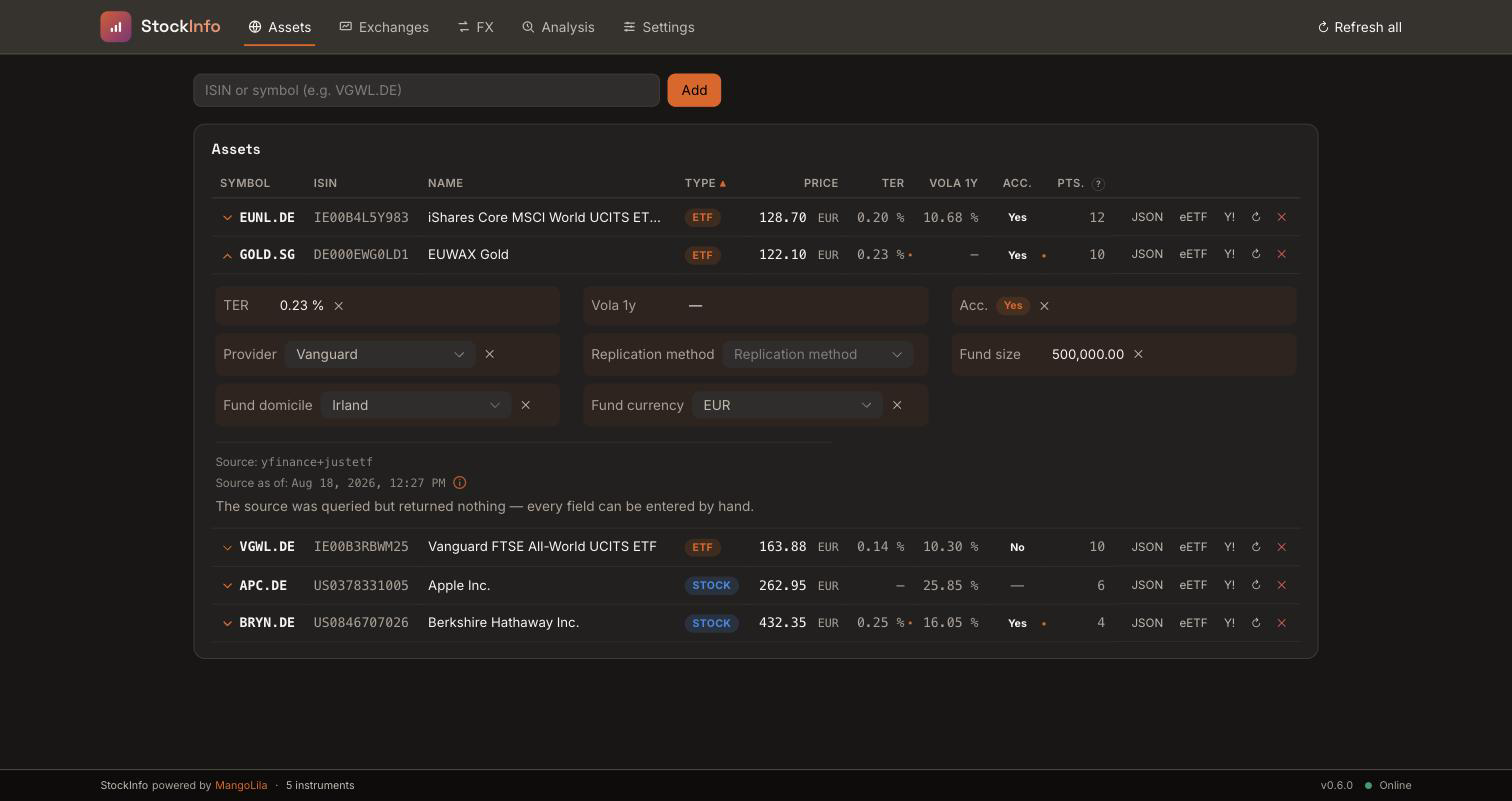
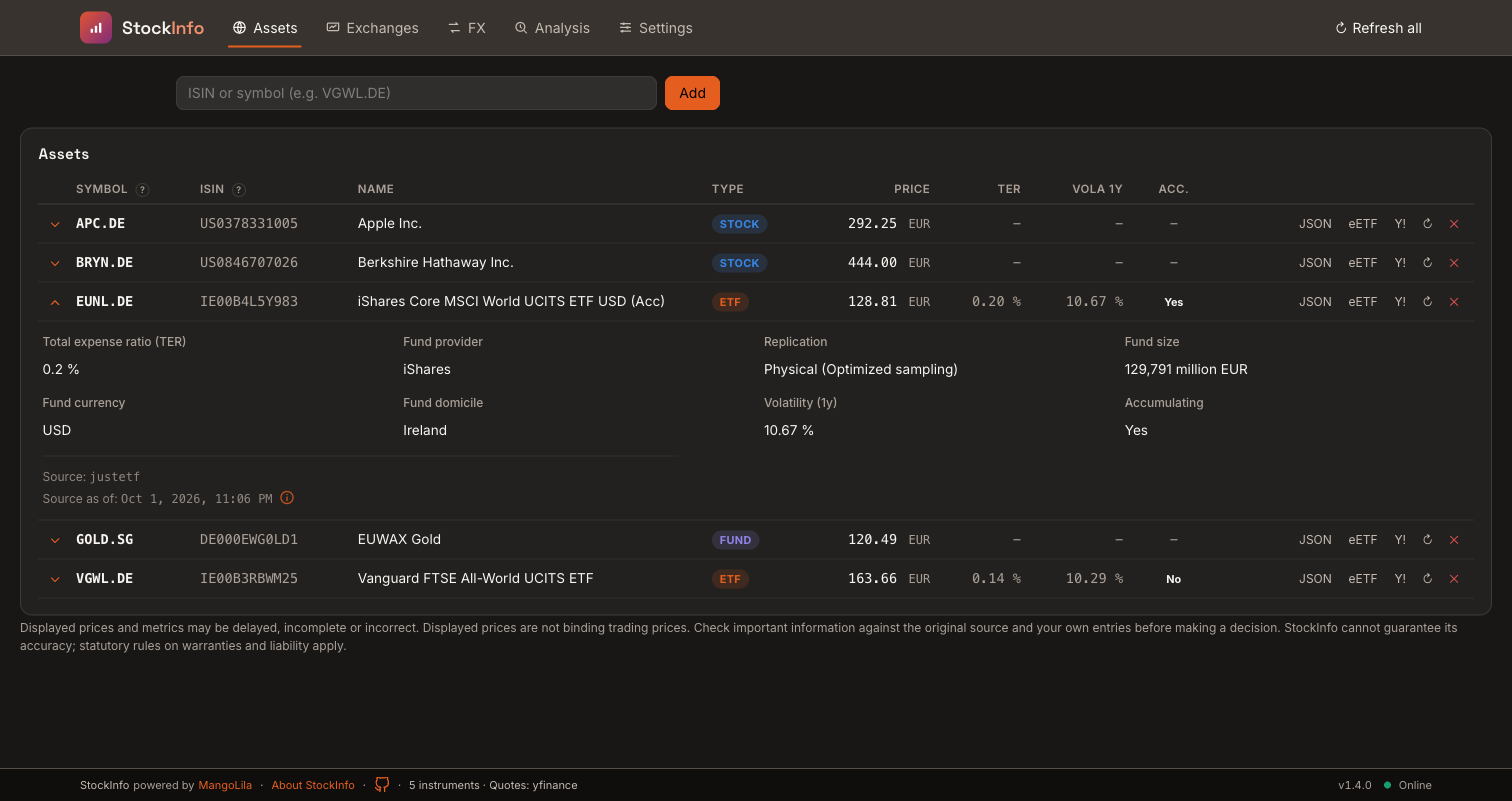
fix(details): Fondsgroesse durchgehend in Mio. EUR
justETF liefert fund_size_eur in Millionen; Katalog, justETF-Plugin und Adapter deklarieren jetzt Unit.MILLIONS mit Waehrung. MONEY_UNITS im Plugin-Vertrag (ABSOLUTE, MILLIONS) verlangt die Waehrung. Anzeige ueber i18n: '129.791 Mio. EUR' / '129,791 million EUR'. Replikation bekommt das fehlende Leerzeichen vor der Klammer. Vertrags-Fixtures auf Millionen, neues detail-area.png (T-88).

diff --git a/dashboard/src/components/MetricEditor.vue b/dashboard/src/components/MetricEditor.vue
@@ -7,6 +7,7 @@ import { UxInlineNumber } from '@mmit/ux-foundation'
 import MetricValue from './MetricValue.vue'
 import { manualValue, sourceProvides } from '../composables/useOverrides'
 import { FIELD_LABEL_KEY } from '../utils/fieldLabels'
+import { fundSizeText } from '../utils/fundSize'
 import type { InstrumentOverrides, InstrumentSummary, OverrideField } from '../types'
 
 /**
@@ -128,11 +129,11 @@ const numericValue = computed(() => (typeof manual.value === 'number' ? manual.v
 
 const numberMax = computed(() => NUMBER_MAX[props.field] ?? Number.MAX_SAFE_INTEGER)
 
-/** Fondsvolumen ist keine Prozentzahl — TER und Volatilität schon. */
+/** Fondsvolumen steht in Mio. EUR — TER und Volatilität in Prozent. */
 const numberDisplay = computed(() => {
   if (numericValue.value === null) return t('common.noValue')
   const formatted = n(numericValue.value, DIGITS)
-  return props.field === 'fund_size' ? formatted : `${formatted} %`
+  return props.field === 'fund_size' ? fundSizeText(t, formatted) : `${formatted} %`
 })
 
 function onNumber(value: number | null): void {

diff --git a/dashboard/tests/components/OpenDetails.spec.ts b/dashboard/tests/components/OpenDetails.spec.ts
@@ -33,6 +33,21 @@ describe('Offene Detailfelder', () => {
     expect(wrapper.emitted('commit')?.[0]).toEqual([{ value: null, currency: currencyRequired ? 'EUR' : null }])
   })
 
+  it.each([
+    ['de', '129.791 Mio. EUR'],
+    ['en', '129,791 million EUR'],
+  ])('zeigt die Fondsgröße in Millionen mit Währung (%s)', (locale, expected) => {
+    i18n.global.locale.value = locale as 'de' | 'en'
+    const wrapper = mount(DetailEditor, {
+      props: {
+        definition: { ...definition, name: 'fund_size', unit: 'millions', currency_required: true, overridable: false },
+        value: { ...value, value: 129791, currency: 'EUR', origin: 'provider', source: 'justetf' },
+      },
+      global: { plugins: [i18n] },
+    })
+    expect(wrapper.text()).toBe(expected)
+  })
+
   it('zeigt ein vorher unbekanntes Plugin-Feld und reicht die Eingabe weiter', async () => {
     vi.stubGlobal('fetch', vi.fn().mockResolvedValue(new Response(JSON.stringify({ details: [definition] }))))
     const wrapper = mount(OpenDetails, {

diff --git a/dashboard/src/components/MetricValue.vue b/dashboard/src/components/MetricValue.vue
@@ -3,6 +3,7 @@ import { computed } from 'vue'
 import { useI18n } from 'vue-i18n'
 
 import { manualValue, overrideState, sourceProvides } from '../composables/useOverrides'
+import { fundSizeText } from '../utils/fundSize'
 import type { InstrumentSummary, OverrideField } from '../types'
 
 /**
@@ -61,9 +62,10 @@ const fromSource = computed(() => applicable.value && sourceProvides(props.item,
  */
 const DIGITS = { minimumFractionDigits: 2, maximumFractionDigits: 2 }
 
-/** Formatiert eine Zahl passend zum Feld — mit Prozentzeichen nur bei ter/volatility. */
+/** Formatiert eine Zahl passend zum Feld: Prozent bei ter/volatility, Mio. EUR bei fund_size. */
 function formatNumber(raw: number): string {
   const formatted = n(raw, DIGITS)
+  if (props.field === 'fund_size') return fundSizeText(t, formatted)
   return isPercentField.value ? `${formatted} %` : formatted
 }
 

diff --git a/dashboard/src/components/DetailEditor.vue b/dashboard/src/components/DetailEditor.vue
@@ -16,8 +16,11 @@ const display = computed(() => {
   if (value === null) return t('common.noValue')
   if (typeof value === 'boolean') return t(value ? 'table.yes' : 'table.no')
   const text = typeof value === 'number' ? n(value) : value
+  // Beim Bearbeiten steht die Währung in der eigenen Auswahl daneben.
+  const currency = editable.value ? '' : props.value.currency || ''
+  if (props.definition.unit === 'millions') return t('details.amountMillions', { amount: text, currency }).trim()
   const unit = props.definition.currency_required
-    ? (editable.value ? '' : props.value.currency || '')
+    ? currency
     : props.definition.unit === 'percent' ? '%' : props.definition.unit || ''
   return `${text}${unit ? ` ${unit}` : ''}`
 })

diff --git a/dashboard/tests/components/MetricEditor.spec.ts b/dashboard/tests/components/MetricEditor.spec.ts
@@ -19,6 +19,18 @@ describe('MetricEditor', () => {
     expect(wrapper.findComponent({ name: 'UxInlineNumber' }).exists()).toBe(true)
   })
 
+  it('zeigt eine eingetragene Fondsgröße in Millionen Euro', () => {
+    const previousLocale = i18n.global.locale.value
+    i18n.global.locale.value = 'en'
+    const wrapper = mountEditor(
+      makeInstrument({ fund_size: 500, manual_fund_size: 500, manual_fields: ['fund_size'] }),
+      'fund_size',
+    )
+
+    expect(wrapper.text()).toContain('500.00 million EUR')
+    i18n.global.locale.value = previousLocale
+  })
+
   it('sperrt das Feld, sobald die Quelle etwas hat', () => {
     const wrapper = mountEditor(makeInstrument({ ter: 0.2 }))
 

diff --git a/dashboard/tests/components/MetricValue.spec.ts b/dashboard/tests/components/MetricValue.spec.ts
@@ -17,6 +17,18 @@ describe('MetricValue', () => {
     expect(wrapper.text()).toBe(i18n.global.t('common.noValue'))
   })
 
+  it('zeigt die Fondsgröße in Millionen Euro', () => {
+    const previousLocale = i18n.global.locale.value
+    i18n.global.locale.value = 'de'
+    const wrapper = mount(MetricValue, {
+      global: { plugins: [i18n] },
+      props: { item: makeInstrument({ fund_size: 129791 }), field: 'fund_size' },
+    })
+
+    expect(wrapper.text()).toBe('129.791,00 Mio. EUR')
+    i18n.global.locale.value = previousLocale
+  })
+
   it('zeigt den wirksamen Wert ohne jede Bedienung', () => {
     const wrapper = mount(MetricValue, {
       global: { plugins: [i18n] },

diff --git a/dashboard/src/utils/fundSize.ts b/dashboard/src/utils/fundSize.ts
@@ -1,0 +1,15 @@
+/**
+ * Anzeige der Fondsgröße in den flachen Feldern (`fund_size`, `manual_fund_size`).
+ *
+ * Die flachen Felder tragen keine eigene Währung. Laut Vertrag stehen sie in
+ * Millionen Euro, so wie justETF sie liefert. Der Detailbereich mit eigener
+ * Währung formatiert in `DetailEditor.vue` über denselben Katalogtext.
+ */
+export const FUND_SIZE_CURRENCY = 'EUR'
+
+type Translate = (key: string, values: Record<string, unknown>) => string
+
+/** „129.791,00 Mio. EUR" aus einer bereits formatierten Zahl. */
+export function fundSizeText(t: Translate, amount: string): string {
+  return t('details.amountMillions', { amount, currency: FUND_SIZE_CURRENCY })
+}

diff --git a/dashboard/src/i18n/de.ts b/dashboard/src/i18n/de.ts
@@ -21,6 +21,7 @@ export const de = {
     shadowed: 'Eigener Wert {value} wird von der Quelle verdeckt.',
     loadFailed: 'Feldkatalog konnte nicht geladen werden.',
     empty: 'Für dieses Instrument sind keine Detailfelder deklariert.',
+    amountMillions: '{amount} Mio. {currency}',
   },
   /*
    * Wortmarke in zwei Teilen: Farbig ist der Teil, der die App

diff --git a/dashboard/src/i18n/en.ts b/dashboard/src/i18n/en.ts
@@ -18,6 +18,7 @@ export const en = {
     shadowed: 'The source takes precedence over your value {value}.',
     loadFailed: 'Could not load field definitions.',
     empty: 'No detail fields are declared for this instrument.',
+    amountMillions: '{amount} million {currency}',
   },
   /*
    * Wortmarke in zwei Teilen: Farbig ist der Teil, der die App

diff --git a/tests/test_open_details.py b/tests/test_open_details.py
@@ -82,6 +82,34 @@ def test_katalogversion_steigt_nur_bei_schemawechsel(tmp_path):
     assert repo.detail_catalog([])[1] == first + 2
 
 
+@pytest.mark.parametrize(
+    ('value', 'accepted'),
+    [(129_791.0, True), (2_000_000.0, True), (2_000_001.0, False)],
+    ids=['msci-world-129791-mio', 'obergrenze-2-billionen', 'ueber-der-obergrenze'],
+)
+def test_fondsgroesse_steht_in_millionen_mit_waehrung(value, accepted):
+    """Die Fondsgröße steht in Mio. EUR, wie justETF sie liefert.
+
+    Auch ein Betrag in Millionen braucht seine Währung; ohne sie wäre
+    „129.791 Mio." bedeutungslos.
+    """
+    from app.detail_models import DetailInput
+    from app.details import validate_input
+
+    class FundSizeSource(SampleSource):
+        FIELDS = (FieldSpec('fund_size', kind='number', unit=Unit.MILLIONS),)
+
+    definition = definitions_for(FundSizeSource())[0]
+    assert definition.unit == 'millions'
+    assert definition.currency_required is True
+    entry = DetailInput(value=value, currency='EUR')
+    if accepted:
+        assert validate_input(definition, entry) == entry
+    else:
+        with pytest.raises(ValueError):
+            validate_input(definition, entry)
+
+
 def test_plausibilitaet_verwendet_die_deklarierte_einheit():
     from stockinfo_plugin import Reading
     from app.plugin_adapters import MetadataAdapter
@@ -130,7 +158,7 @@ def test_alter_override_weg_erhaelt_die_gespeicherte_betragswaehrung(tmp_path):
     from tests.test_quote_cache import FakeQuoteService, _now, _response
 
     class FundSource(SampleSource):
-        FIELDS = (FieldSpec('fund_size', kind='number', unit=Unit.ABSOLUTE),
+        FIELDS = (FieldSpec('fund_size', kind='number', unit=Unit.MILLIONS),
                   FieldSpec('fund_currency'))
 
     path = str(tmp_path / 'money.db')

diff --git a/app/details.py b/app/details.py
@@ -5,6 +5,7 @@ import re
 from collections.abc import Iterable
 
 from stockinfo_plugin import Unit
+from stockinfo_plugin.types import MONEY_UNITS as CONTRACT_MONEY_UNITS
 from stockinfo_plugin.types import convert
 
 from app.detail_models import DetailDefinition, DetailInput, DetailScope, DetailValue
@@ -14,13 +15,17 @@ from app.detail_models import DetailDefinition, DetailInput, DetailScope, Detail
 CANONICAL = {
     'ter': ('number', 'percent', 0, 5),
     'volatility': ('number', 'percent', 0, 500),
-    'fund_size': ('number', 'absolute', 0, 2_000_000),
+    # In Mio. EUR wie bei justETF; 2.000.000 entspricht 2 Billionen.
+    'fund_size': ('number', 'millions', 0, 2_000_000),
     'accumulating': ('boolean', None, None, None),
     'provider': ('text', None, None, None),
     'replication': ('text', None, None, None),
     'fund_domicile': ('text', None, None, None),
     'fund_currency': ('text', None, None, None),
 }
+
+# Betragseinheiten als Katalogwerte; die Regel selbst steht im Plugin-Vertrag.
+MONEY_UNITS = frozenset(unit.value for unit in CONTRACT_MONEY_UNITS)
 
 
 def definitions_for(source: object) -> list[DetailDefinition]:
@@ -60,7 +65,7 @@ def definitions_for(source: object) -> list[DetailDefinition]:
             name=name, kind=kind, unit=unit, minimum=minimum, maximum=maximum,
             label_en=spec.label_en or spec.name, label_de=spec.label_de,
             overridable=spec.overridable, sources=[source.name],
-            currency_required=unit == 'absolute',
+            currency_required=unit in MONEY_UNITS,
             scopes=[DetailScope(source=source.name,
                 instrument_types=sorted(supported if types is None else types),
                 identity_kinds=sorted(getattr(source, 'SUPPORTED_KINDS', ())))],

diff --git a/app/plugins/justetf_metadata.py b/app/plugins/justetf_metadata.py
@@ -29,6 +29,7 @@ from stockinfo_plugin import (
     ResolveRequest,
     Unit,
 )
+from stockinfo_plugin.types import MONEY_UNITS
 
 from app.exchanges import EXCHANGES
 from app.plugins.exchange_support import ONLINE_MICS
@@ -64,7 +65,7 @@ FIELDS: tuple[FieldSpec, ...] = (
     FieldSpec(
         "fund_size",
         kind="number",
-        unit=Unit.ABSOLUTE,
+        unit=Unit.MILLIONS,
         label_en="Fund size",
         label_de="Fondsvolumen",
     ),
@@ -208,17 +209,15 @@ def as_readings(details: EtfDetails, source: str = "justetf") -> list[Reading]:
             value=getattr(details, spec.name),
             unit=spec.unit,
             source=source,
-            # **Ein absoluter Betrag ohne Währung ist bedeutungslos** — dieselbe
-            # Regel, die für Kurse gilt, und ein Befund des Vertrags.
+            # **Ein Betrag ohne Währung ist bedeutungslos** — auch in Millionen.
             #
             # Die Währung ist **EUR und nicht `fund_currency`.** Der Provider
             # liest `overview["fund_size_eur"]`; das Volumen ist also bereits
             # umgerechnet. `fund_currency` ist die Währung des **Fonds** — bei
             # `IE00B4L5Y983` USD —, und den EUR-Betrag damit zu beschriften
             # hätte ihn um den Wechselkurs verfälscht, ohne dass irgendwo ein
-            # Fehler entstünde. Zweiter Befund derselben Sorte in diesem
-            # Ticket: Der Wert stimmte, seine Bedeutung nicht.
-            currency=FUND_SIZE_CURRENCY if spec.unit is Unit.ABSOLUTE else None,
+            # Fehler entstünde.
+            currency=FUND_SIZE_CURRENCY if spec.unit in MONEY_UNITS else None,
         )
         for spec in FIELDS
         if getattr(details, spec.name, None) is not None
